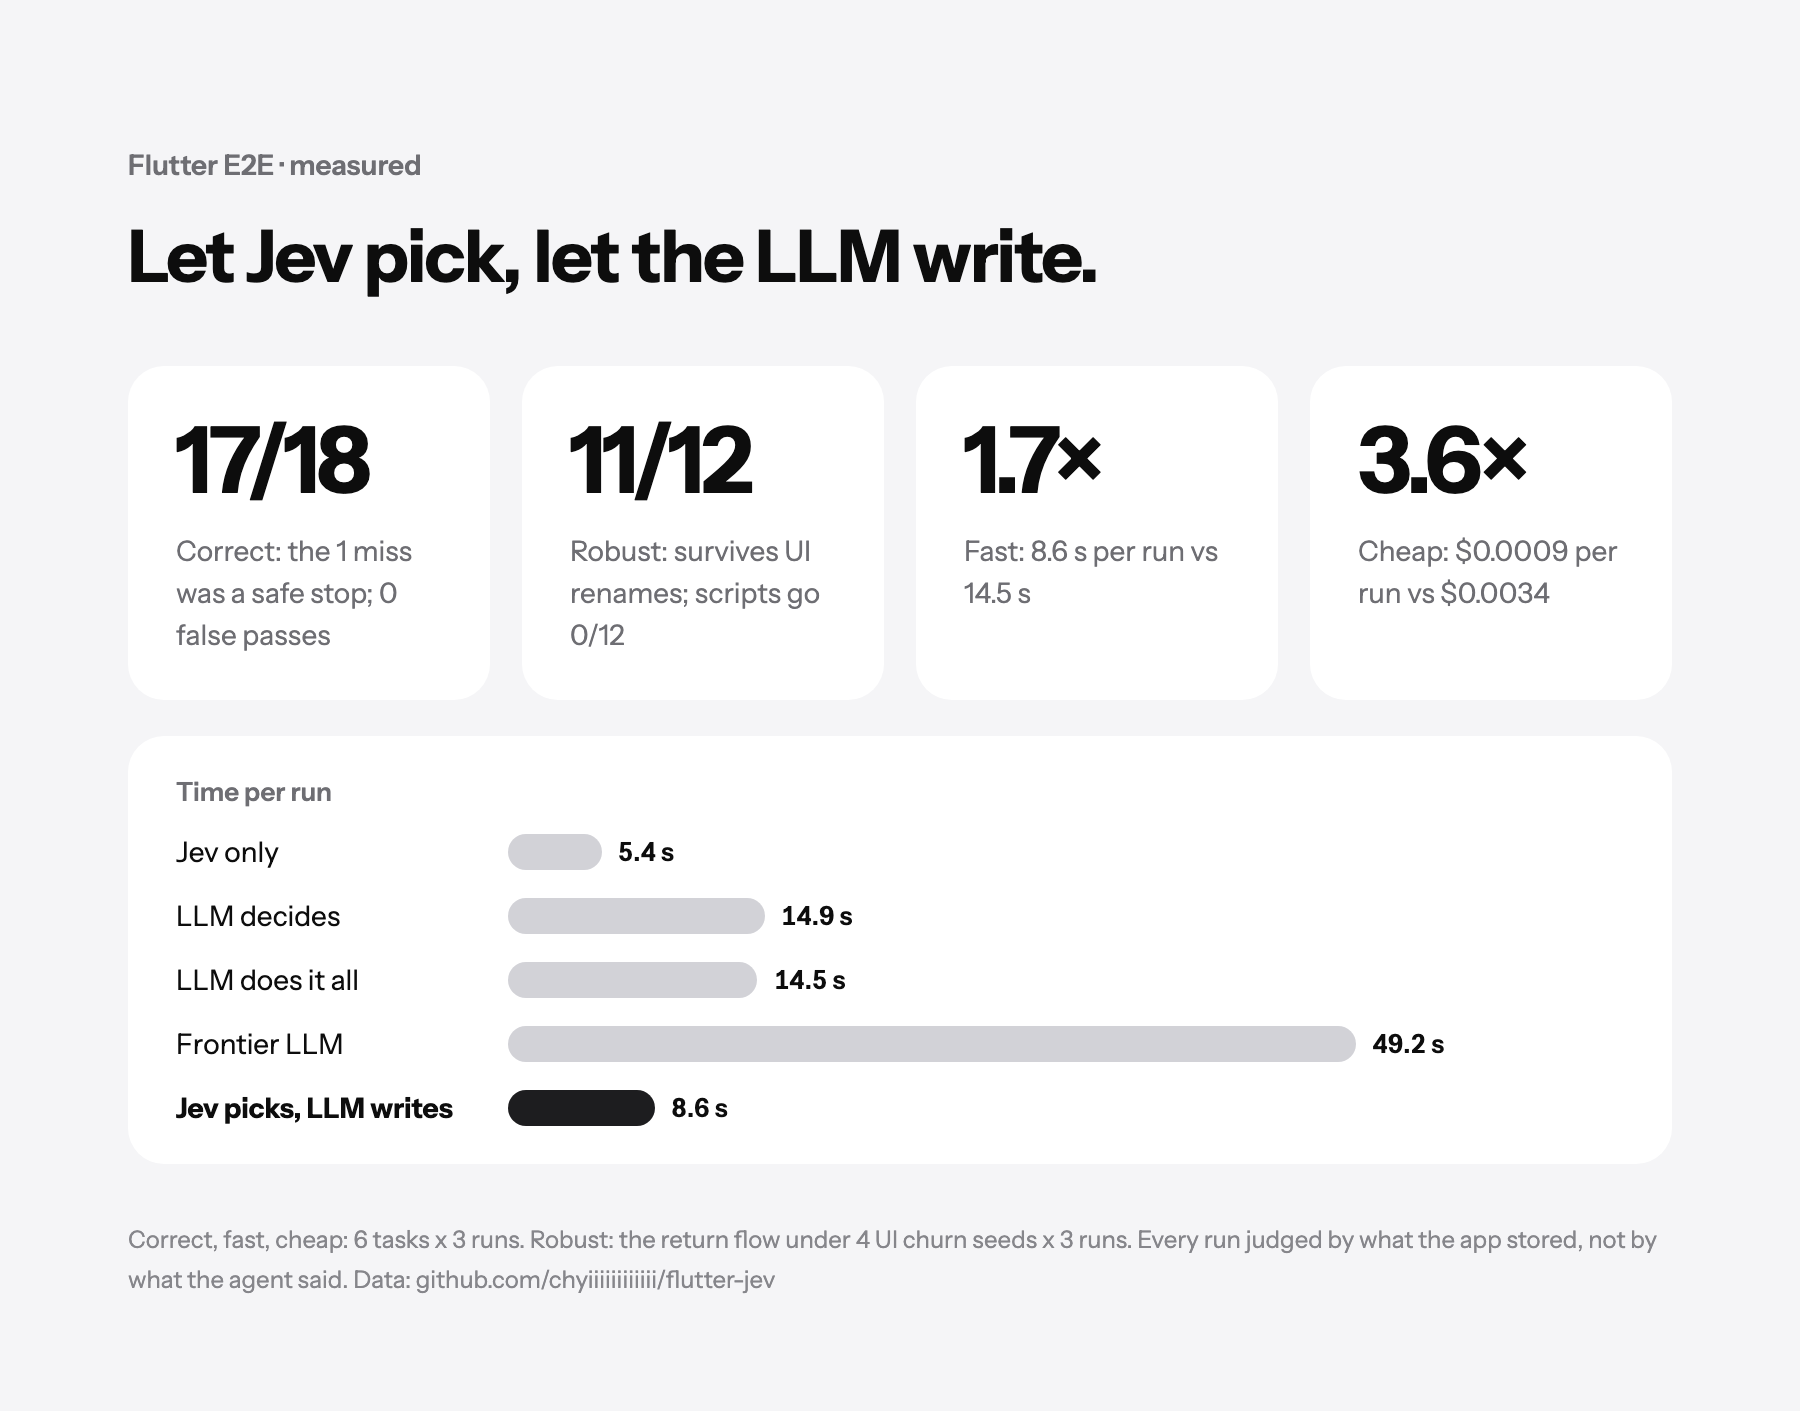
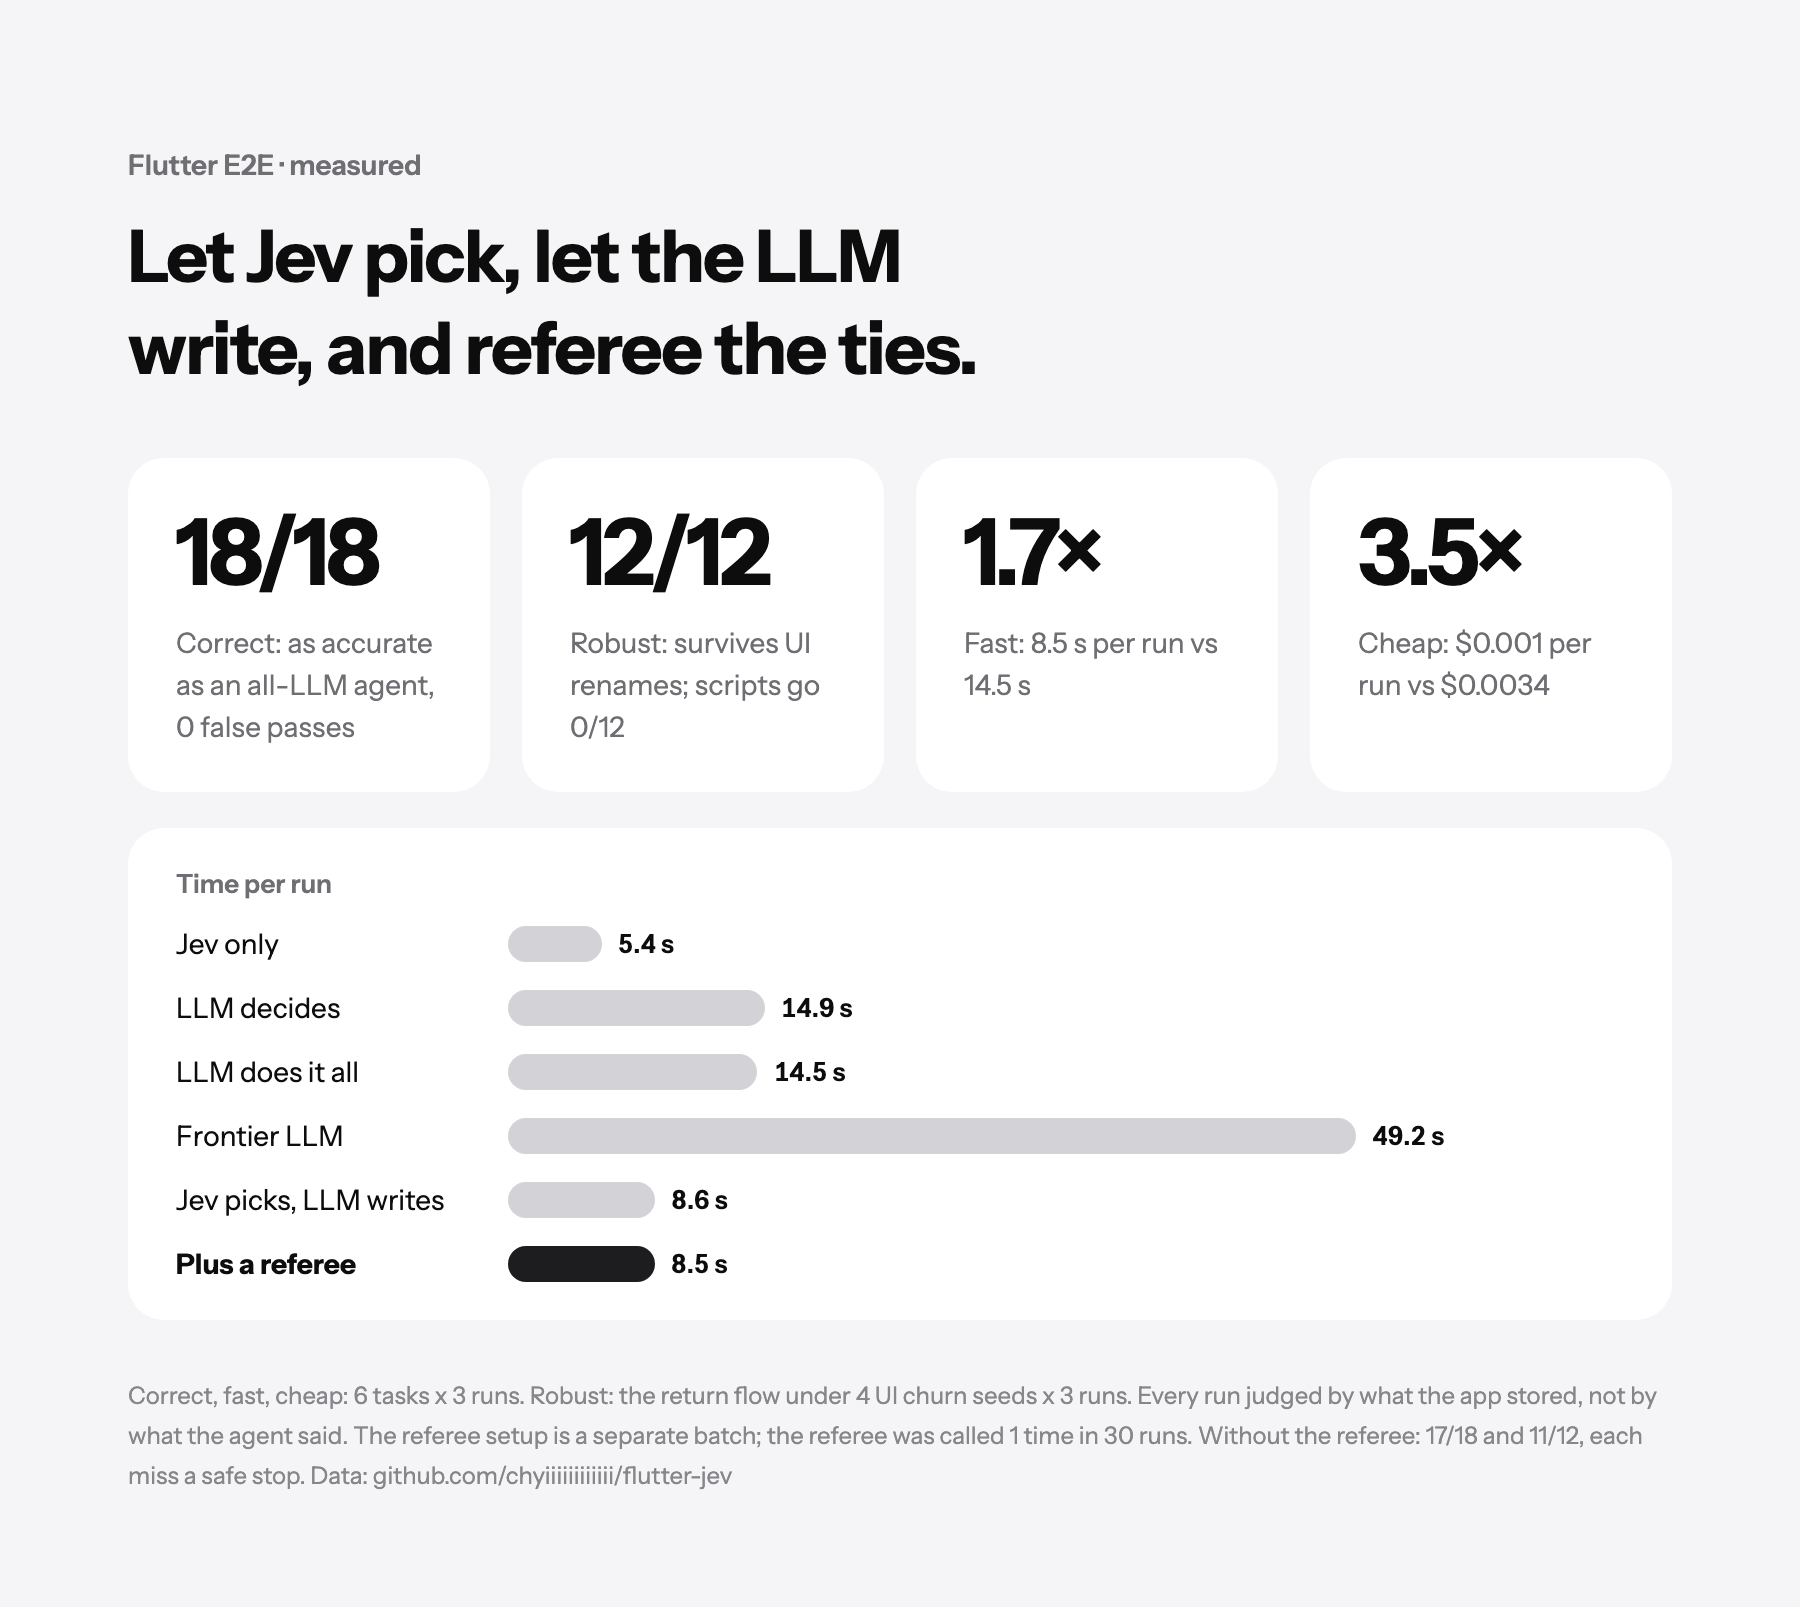
docs(readme): lead with the referee setup, 18/18 and 12/12

diff --git a/README.md b/README.md
@@ -12,11 +12,12 @@ where every surface was picked by Jev. The app, its brand (Boxtide, a fictional 
 catalog and the data here are my own; the benchmark measures that idea rather than
 reproducing the demo.
 
-The short version: let Jev pick every step and let a cheap LLM write only the text a
-field needs. Every run below is judged by what the app actually stored, not by what the
+The short version: let Jev pick every step, let a cheap LLM write only the text a
+field needs, and let the same LLM break the tie when Jev is unsure on a step that can
+be undone. Every run below is judged by what the app actually stored, not by what the
 agent said.
 
-![Jev picks, LLM writes: 17/18 correct with the one miss a safe stop; 11/12 after UI renames where scripts go 0/12; 1.7x faster; 3.6x cheaper](results/figures/hero-en.png)
+![Jev picks, LLM writes, LLM referees ties: 18/18 correct; 12/12 after UI renames where scripts go 0/12; 1.7x faster; 3.5x cheaper](results/figures/hero-en.png)
 
 One of those runs, as it happened. Filled tags are Jev choosing an action; outlined tags
 are the LLM writing words from what is on screen. The last frame is what the app received.
